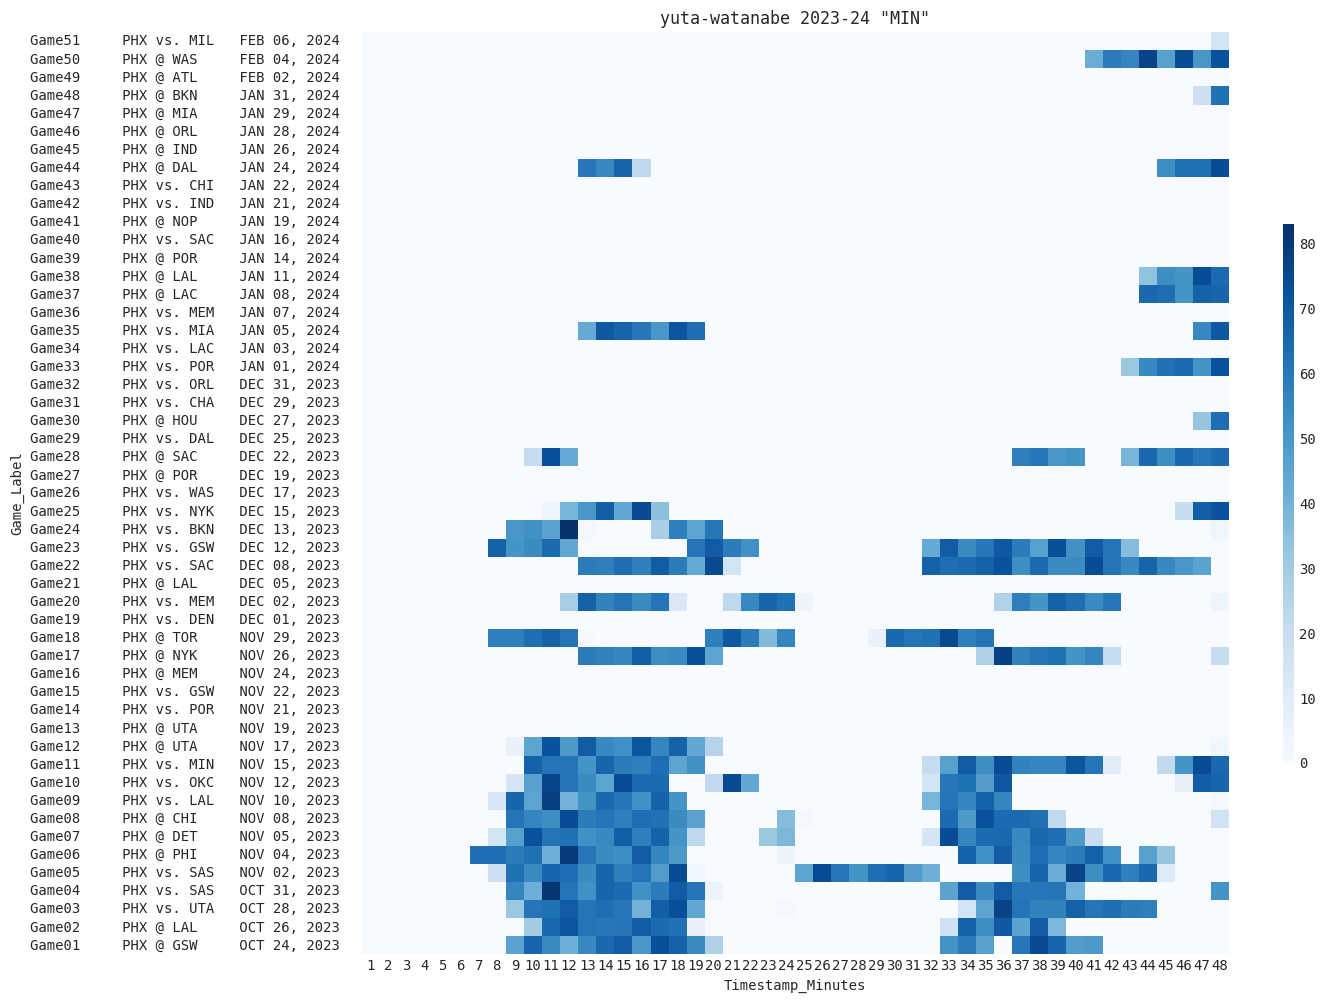
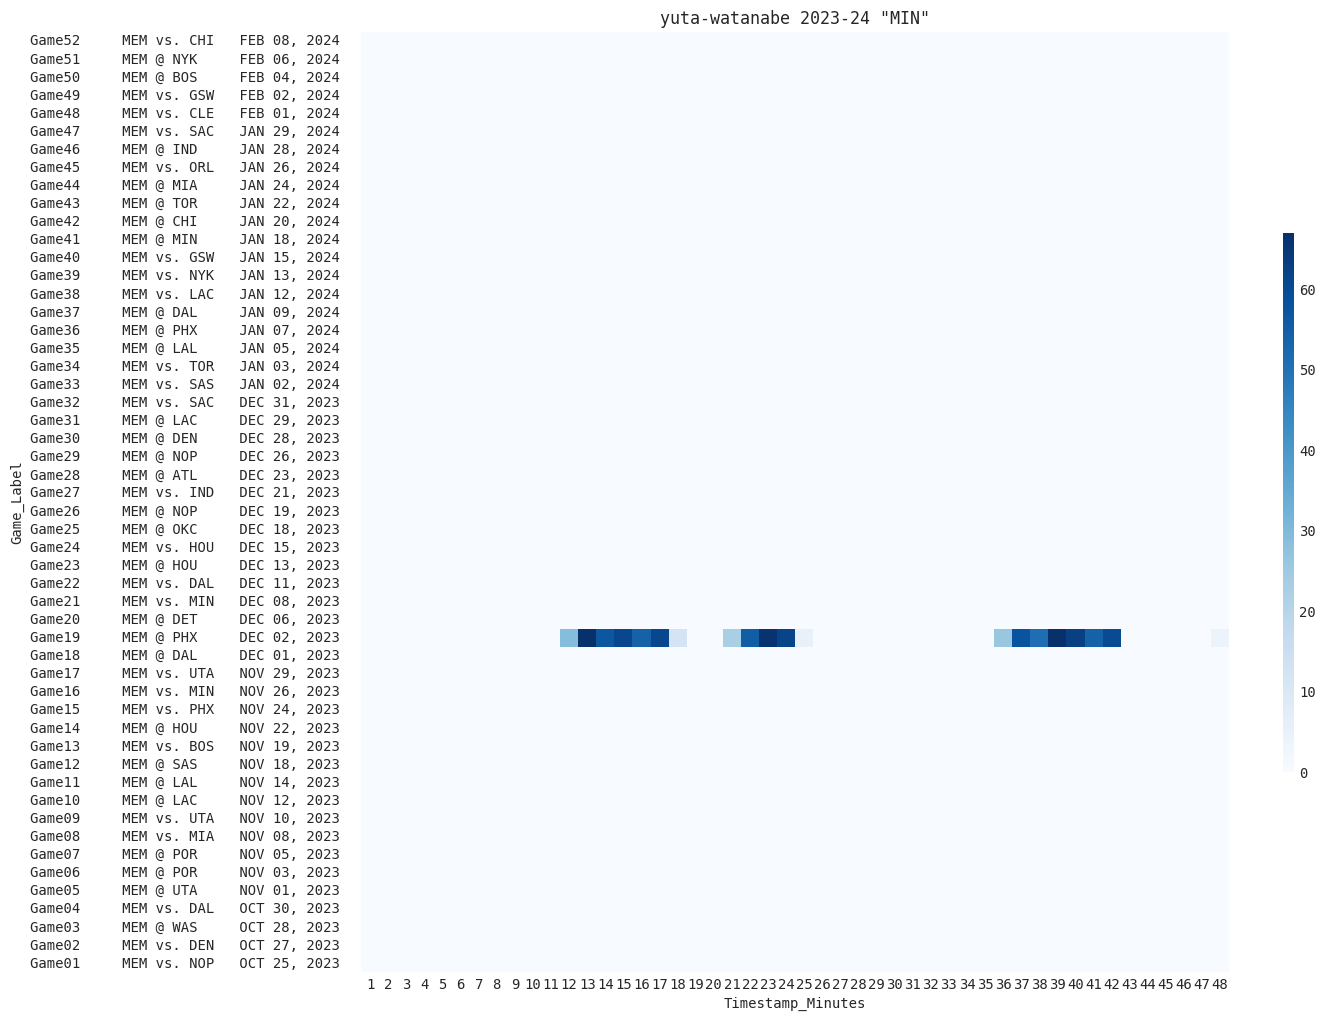
Update the results for being traded players.

diff --git a/2023-24.md b/2023-24.md
@@ -1,15 +1,19 @@
 ## 活躍状況 2023-24 シーズン
-> Last Update: 2024-02-07 17:56:07
+> Last Update: 2024-02-10 15:22:30
+- (注)オーバータイム時の情報は対象外です。
 
-- 渡邊雄太 Yuta Watanabe
-  - 出場時間帯
-  ![image.png](images/yuta-watanabe_2023-24_MIN.png)
-  - 得点
-  ![image.png](images/yuta-watanabe_2023-24_PTS.png)
-- 八村塁 Rui Hachimura
-  - 出場時間帯
-  ![image.png](images/rui-hachimura_2023-24_MIN.png)
-  - 得点
-  ![image.png](images/rui-hachimura_2023-24_PTS.png)
-- 補足
-  - オーバータイム時の情報は対象外です。
+### 渡邊雄太 Yuta Watanabe
+- 出場時間帯 Minutes
+![image.png](images/yuta-watanabe_2023-24_MIN.png)
+- Before being traded to the Memphis.
+![image.png](images/yuta-watanabe_2023-24_MIN_before_trade.png)
+- 得点 Score
+![image.png](images/yuta-watanabe_2023-24_PTS.png)
+- Before being traded to the Memphis.
+![image.png](images/yuta-watanabe_2023-24_PTS_before_trade.png)
+
+### 八村塁 Rui Hachimura
+- 出場時間帯 Minutes
+![image.png](images/rui-hachimura_2023-24_MIN.png)
+- 得点 Score
+![image.png](images/rui-hachimura_2023-24_PTS.png)
